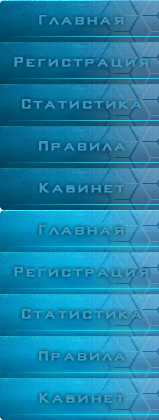
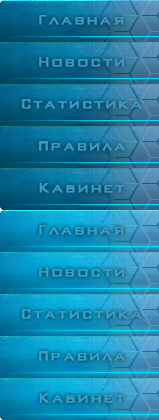
Remove registration from site
Should be moved to panel project

diff --git a/templates/cell/style.css b/templates/cell/style.css
@@ -212,9 +212,9 @@ ASIDE { float: left; width: 159px; margin-top: 126px; }
 .nbutton.main                               { border-radius: 5px 0 0 0; z-index: 5; }
 .nbutton.main:hover, .nbutton.main.active   { background-position: 0 -210px; }
 .nbutton.main.active                        { margin-left: 10px; }
-.nbutton.reg                                { z-index: 4; background-position: 0 -42px; }
-.nbutton.reg:hover , .nbutton.reg.active    { background-position: 0 -252px; }
-.nbutton.reg.active                         { margin-left: 10px; }
+.nbutton.news                               { z-index: 4; background-position: 0 -42px; }
+.nbutton.news:hover , .nbutton.news.active  { background-position: 0 -252px; }
+.nbutton.news.active                        { margin-left: 10px; }
 .nbutton.stats                              { z-index: 3; background-position: 0 -84px; }
 .nbutton.stats:hover, .nbutton.stats.active { background-position: 0 -294px; }
 .nbutton.stats.active                       { margin-left: 10px; }
@@ -289,12 +289,12 @@ ASIDE { float: left; width: 159px; margin-top: 126px; }
     top: 45px;
     background: url(images/hex_main.png);
 }
-.standardbox .middlebar .backgroundhex.reg
+.standardbox .middlebar .backgroundhex.news
 {
     width: 181px;
     height: 209px;
     top: 69px;
-    background: url(images/hex_reg.png);
+    background: url(images/hex_news.png);
 }
 .standardbox .middlebar .backgroundhex.stats
 {

diff --git a/templates/cell/js/jquery.cellAPI.js b/templates/cell/js/jquery.cellAPI.js
@@ -44,8 +44,8 @@ $(document).ready(function(){
 
 					if ($(this).hasClass("main"))
 						$('#hex_main').stop().animate({"opacity": "1"}, "fast");
-					else if ($(this).hasClass("reg"))
-						$('#hex_reg').stop().animate({"opacity": "1"}, "fast");
+					else if ($(this).hasClass("news"))
+						$('#hex_news').stop().animate({"opacity": "1"}, "fast");
 					else if ($(this).hasClass("stats"))
 						$('#hex_stats').stop().animate({"opacity": "1"}, "fast");
 					else if ($(this).hasClass("rules"))
@@ -62,8 +62,8 @@ $(document).ready(function(){
 
 					if ($(this).hasClass("main"))
 						$('#hex_main').stop().animate({"opacity": "0"}, "fast");
-					else if ($(this).hasClass("reg"))
-						$('#hex_reg').stop().animate({"opacity": "0"}, "fast");
+					else if ($(this).hasClass("news"))
+						$('#hex_news').stop().animate({"opacity": "0"}, "fast");
 					else if ($(this).hasClass("stats"))
 						$('#hex_stats').stop().animate({"opacity": "0"}, "fast");
 					else if ($(this).hasClass("rules"))
